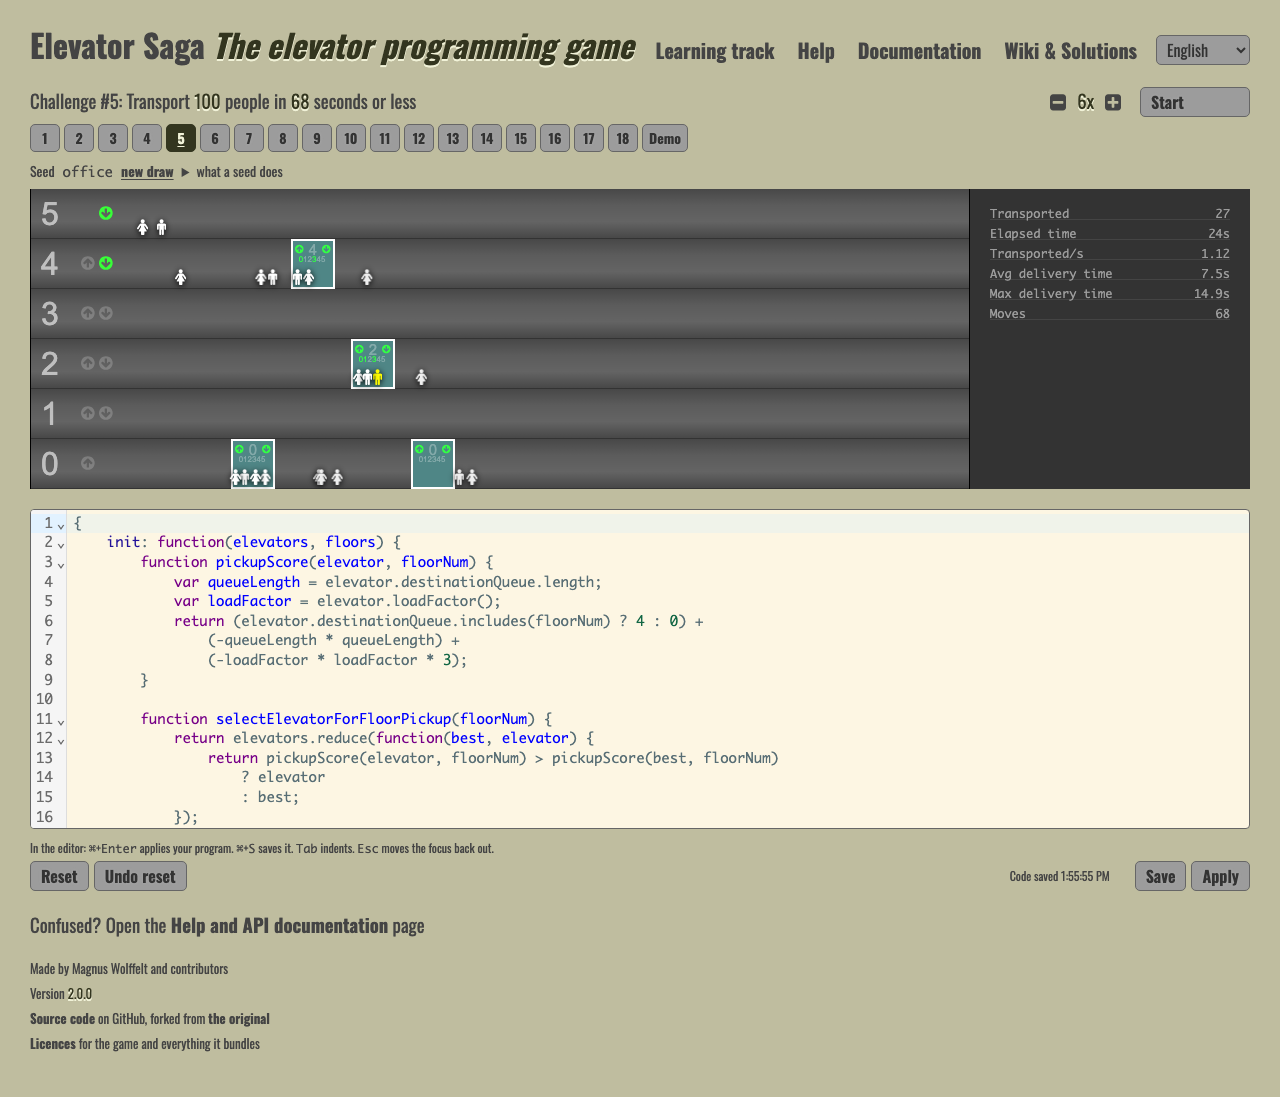
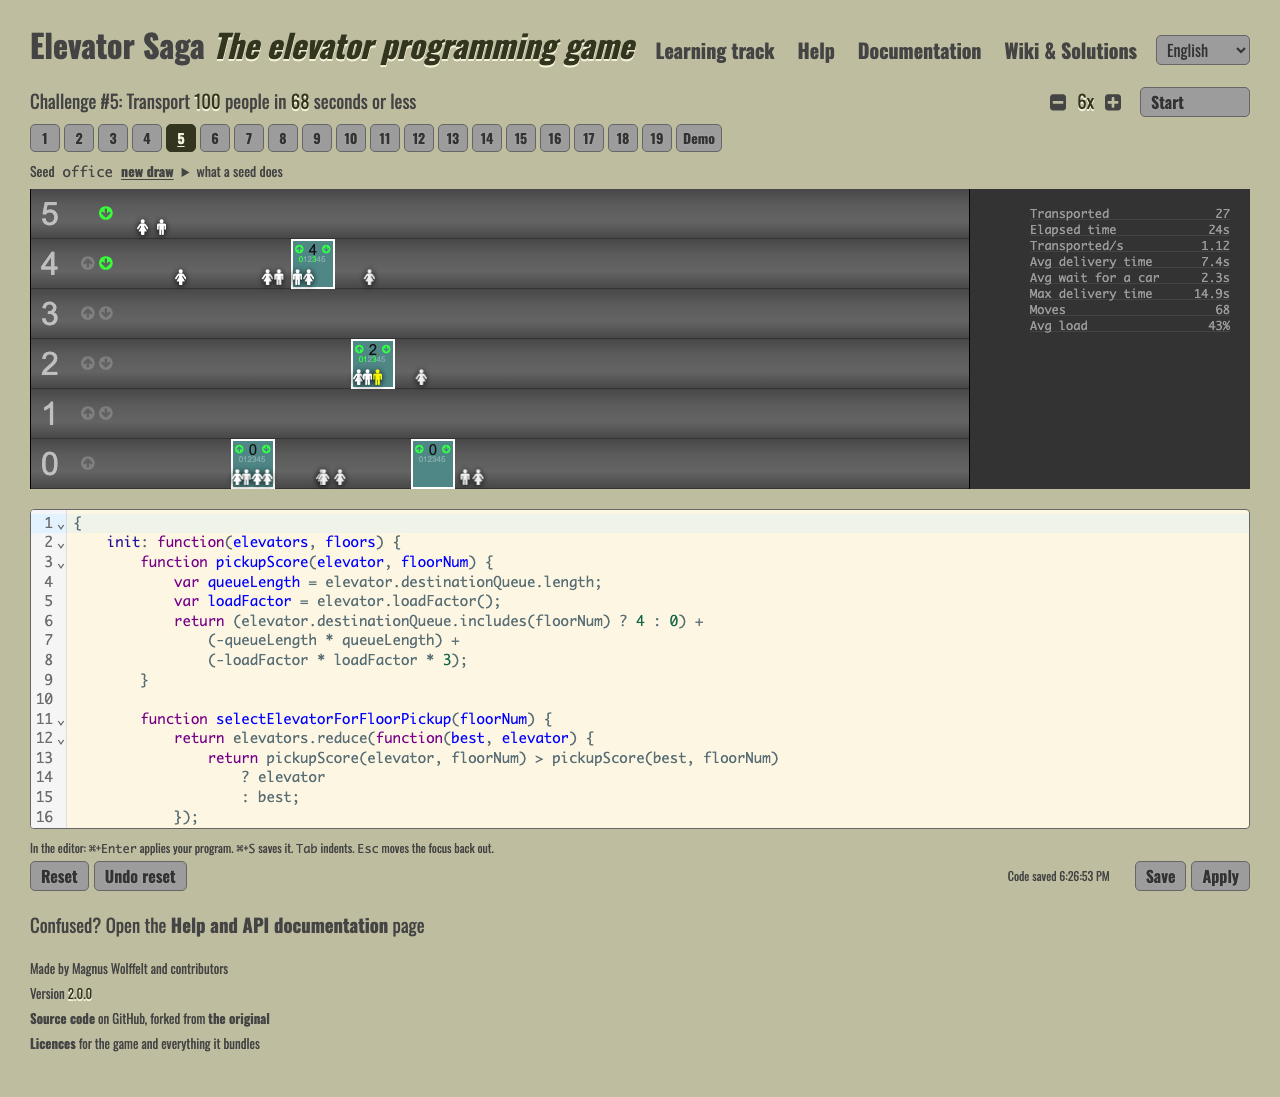
Recapture the README screenshot with the whole panel in it
The picture was taken before the statistics panel grew two rows and
before the clip box was made to hold them, so it showed a six-row panel
that no longer exists. This capture shows all eight: `Avg wait for a
car` at 2.3s and `Avg load` at 43%, under the six that were always
there.

Nothing about the composition changed -- same seed, same challenge, same
27 transported in 24s over 68 moves, cars caught at floors 4, 2, 0 and
0. The seed docblock is corrected in the same breath: it recorded that
six captures all read 1.13 transported a second, and this seventh reads
1.12. The elapsed time is printed rounded and 27 over 24 is 1.125, so
the two readings are a fraction of a second apart rather than a
different run, and the comment now says so instead of promising a figure
that lands on the wrong side of a rounding.

diff --git a/e2e/screenshot.spec.ts b/e2e/screenshot.spec.ts
@@ -45,15 +45,17 @@ const TRANSPORTED_BEFORE_CAPTURE = 18;
  * why — `dt` comes from `requestAnimationFrame`, so the cars are elsewhere as
  * each passenger appears and the outcome moves with them. That caveat holds
  * here too; what makes the picture steady anyway is that a headless Chromium
- * with nothing else to do delivers very regular frames. Six captures from this
- * seed all came out at 27 transported in 24s at 1.13 a second and 68 moves,
- * with the cars at floors 4, 2, 0 and 0 and the same passengers waiting on the
- * same floors; the average delivery read 7.5s or 7.4s and the worst 14.9s or
- * 14.8s, which is the whole of the difference between them. Other seeds tried
- * were not all this steady — `tower` landed on 23 transported once and 25 twice
- * — so the steadiness is a property of the seed picked, not a promise of the
- * mechanism, and a regenerated picture that differs in a car or two is the run
- * wobbling rather than anything being wrong. The wall-clock "Code saved" line
+ * with nothing else to do delivers very regular frames. Seven captures from
+ * this seed all came out at 27 transported in 24s and 68 moves, with the cars
+ * at floors 4, 2, 0 and 0 and the same passengers waiting on the same floors;
+ * the rate read 1.13 a second or 1.12, the average delivery 7.5s or 7.4s and
+ * the worst 14.9s or 14.8s, which is the whole of the difference between them
+ * -- the rate is 27 over an elapsed time the panel prints rounded, so the two
+ * readings are a fraction of a second apart. Other seeds tried were not all
+ * this steady — `tower` landed on 23 transported once and 25 twice — so the
+ * steadiness is a property of the seed picked, not a promise of the mechanism,
+ * and a regenerated picture that differs in a car or two is the run wobbling
+ * rather than anything being wrong. The wall-clock "Code saved" line
  * under the editor is the one part no seed reaches at all.
  *
  * Chosen over the others tried for the composition at 1280x1000: passengers
